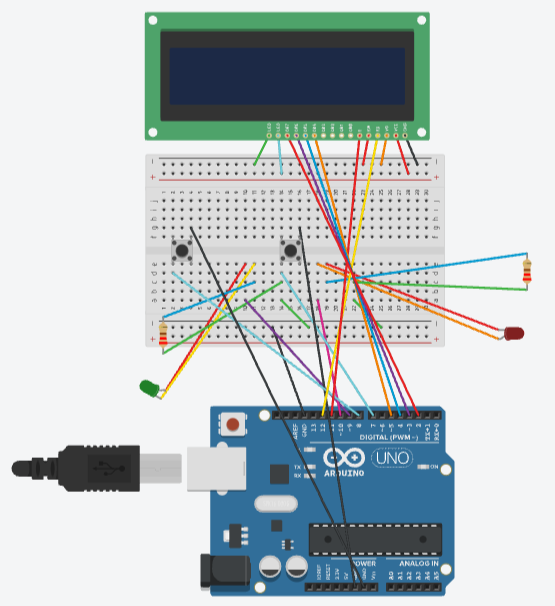
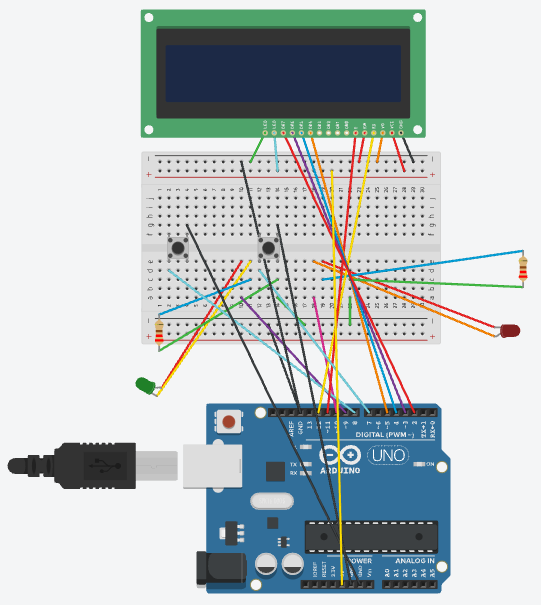
docs: add README, screenshots, and technical documentation

diff --git a/project1-smart-occupancy/docs/technical_documentation.md b/project1-smart-occupancy/docs/technical_documentation.md
@@ -1,0 +1,23 @@
+# Technical Documentation
+
+## Structures
+- `Occupancy`: stores current count, maximum capacity, total entries and exits, and rejected entries and exits.
+- `Button`: stores the pin and debounce state of one button.
+
+## Pointers and dynamic memory
+`createOccupancy()` uses `malloc()` to create the Occupancy record. If there isn't enough memory it returns NULL, and the program stops and prints an error. Every other function gets a pointer to this record, like `handleEntry(Occupancy *o)`, and changes the values through `->`. I never call `free()` because the Arduino keeps running forever and needs this record the whole time, but if the program could exit, I would call `free(occ)` at the end.
+
+## Non-blocking programming
+`buttonPressed()` debounces each button using `millis()` (50 ms). The LCD refreshes every 500 ms using `millis()`. `delay()` is never used.
+
+## Functions
+- `createOccupancy()`: allocates and initializes the record.
+- `buttonPressed()`: debounced button detection.
+- `handleEntry()` / `handleExit()`: update the count and reject invalid operations.
+- `updateLEDs()`: green when there is space, red when full.
+- `updateLCD()`: shows people inside and free spaces.
+- `printStats()`: prints statistics to the Serial Monitor.
+
+## Error handling
+- Entry when full and exit when empty are rejected, with a message in the Serial Monitor.
+- Memory allocation failure stops the program with a message.

diff --git a/project1-smart-occupancy/README.md b/project1-smart-occupancy/README.md
@@ -1,4 +1,27 @@
 # Smart Occupancy Monitoring and Access Control System
-Arduino Uno simulation in Tinkercad. Tracks people entering and leaving a facility with a maximum capacity.
+
+Arduino Uno simulation in Tinkercad. Two push buttons simulate people entering and leaving a facility with a maximum capacity of 5. A 16x2 LCD shows the occupancy and remaining capacity, and two LEDs show the status.
 
 Tinkercad circuit: https://www.tinkercad.com/things/h15cLhvrSe9/editel?returnTo=%2Fdashboard&sharecode=_-LHnaAf-BByrT302Qt-2wm-tjcPQD0MmYXSJbSFM34 
+
+## Components
+Arduino Uno, 2 push buttons, green LED, red LED, 16x2 LCD, 2 220 ohm resistors, small breadboard, jumper wires.
+
+## Pin mapping
+| Component | Arduino pin |
+|---|---|
+| Entry button | 7 |
+| Exit button | 8 |
+| Green LED | 9 |
+| Red LED | 10 |
+| LCD RS, E | 12, 11 |
+| LCD DB4 to DB7 | 5, 4, 3, 2 |
+
+## How it works
+- Entry button: adds one person; rejected with an error if the facility is full.
+- Exit button: removes one person; rejected with an error if the facility is empty.
+- Green LED on when there is space, red LED on when full.
+- LCD shows people inside and free spaces; Serial Monitor shows events, errors and statistics.
+
+## Screenshots
+See the `screenshots` folder.
